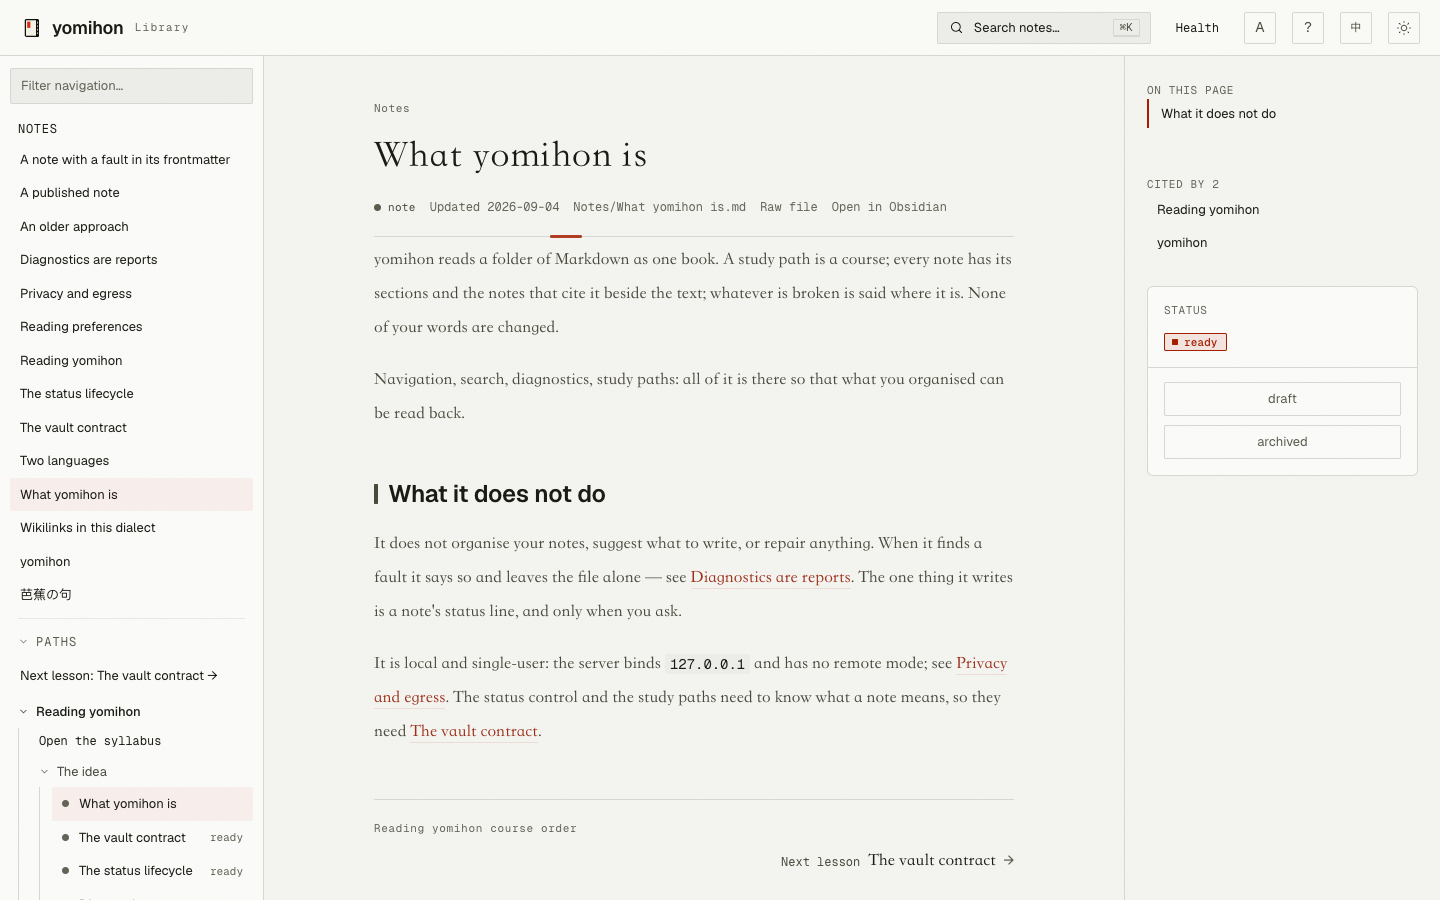
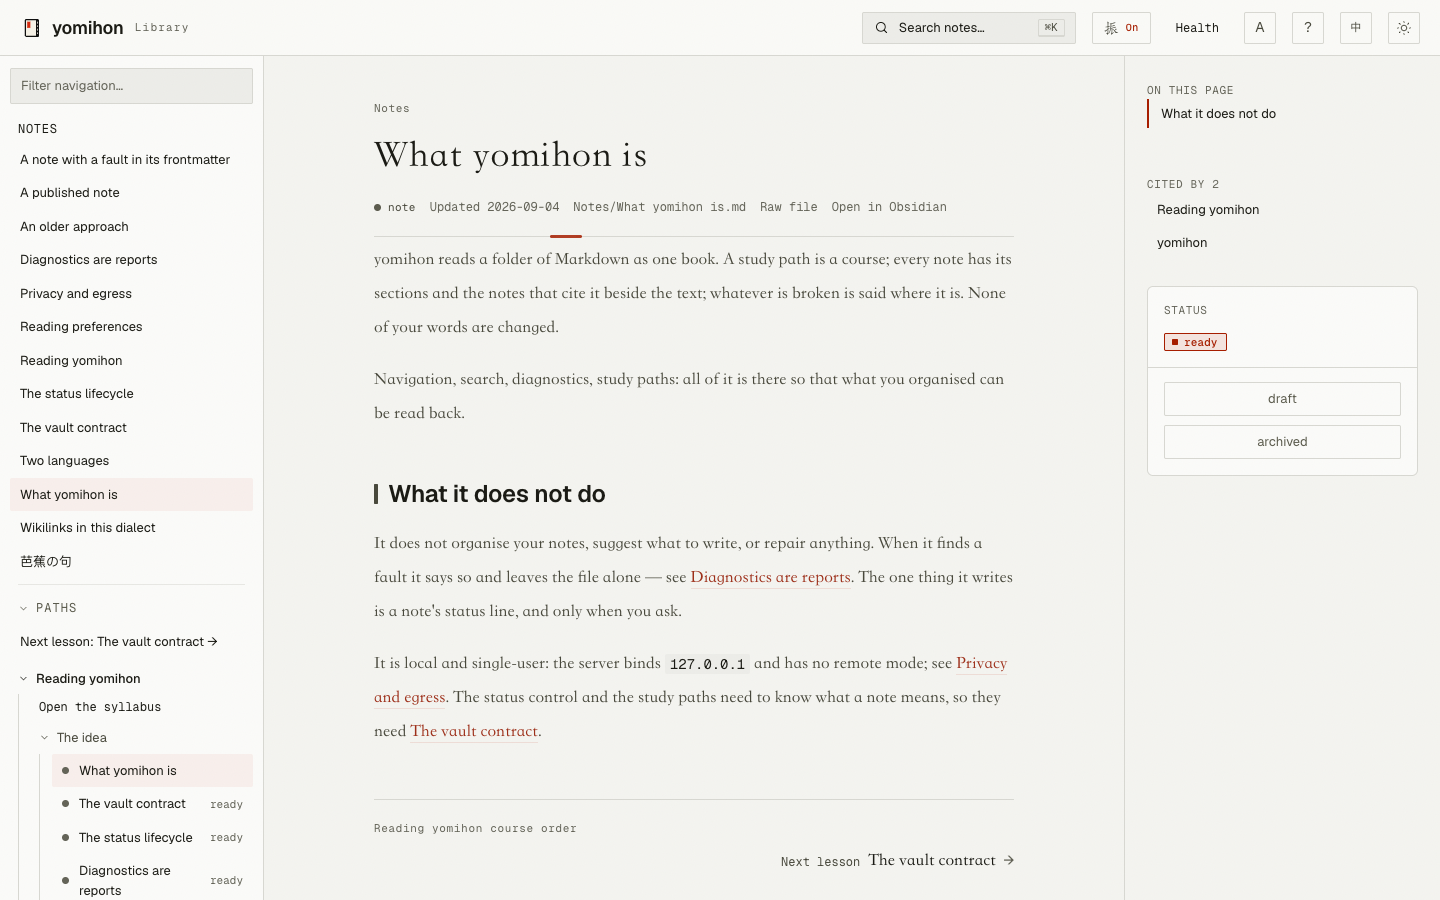
fix: install the current published release
The old latest release could not read the example vault's current contract.
The gated v0.2.0 release now installs and reads that fixture successfully,
so both language guides can return to the stable release installation line.

Retake .github/media/reading-en.png and reading-zh-TW.png from the tracked
example vault to show the current left navigation and reading controls.
Correct release workflow comments to describe its actual gate and tag check.
Align the security policy with latest-release reports and refresh the bug
form version example so reporting instructions match the install guides.
No workflow behavior, UI recordings, or judge goldens change.

Closes #90

diff --git a/.github/SECURITY.md b/.github/SECURITY.md
@@ -2,8 +2,8 @@
 
 ## Supported versions
 
-`v0.1.0` is a pre-release and is not maintained. Fixes land on `main`, which is
-what `go install …@main` gives you and the only version to report against.
+Report against `main` or the latest release — what `go install …@latest` gives
+you. Fixes land on `main`; earlier releases are not maintained.
 
 ## Reporting a vulnerability
 

diff --git a/README.md b/README.md
@@ -18,7 +18,7 @@ on your machine and changes none of your words.
 ## Install
 
 ```sh
-go install github.com/koopa0/yomihon/cmd/yomihon@main
+go install github.com/koopa0/yomihon/cmd/yomihon@latest
 ```
 
 Needs Go 1.27 or newer. The path is lowercase even though the repository's
